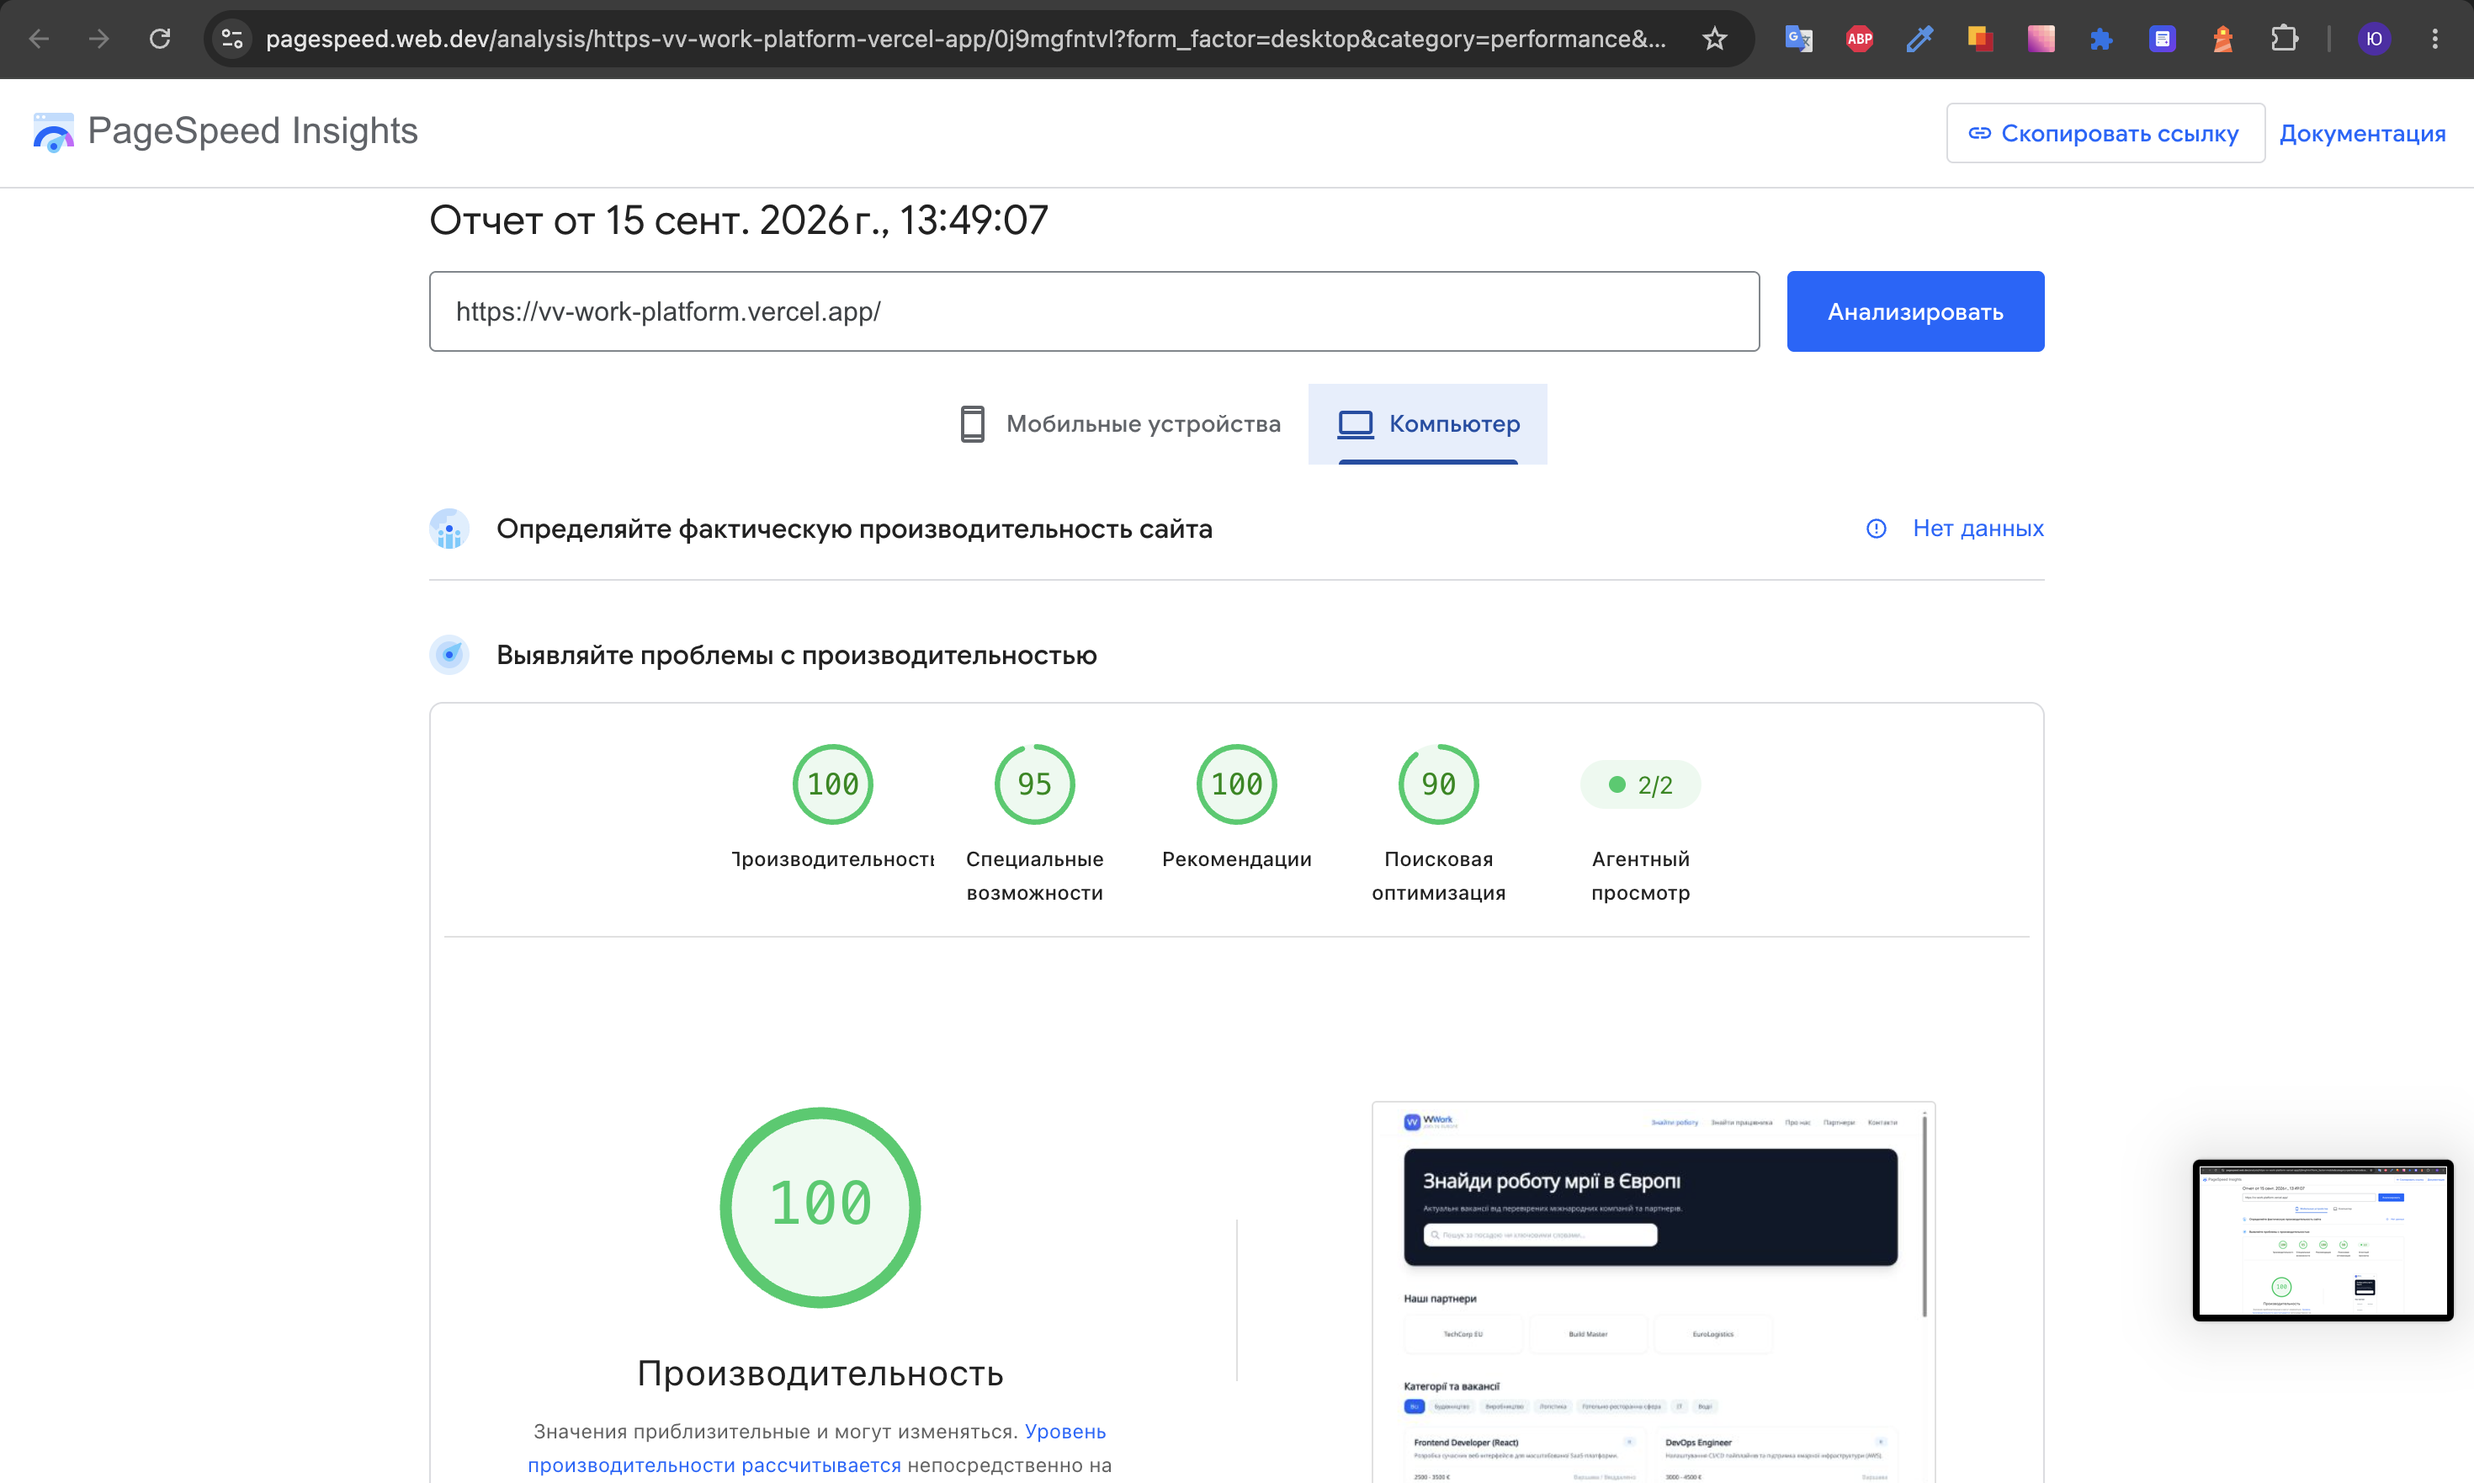
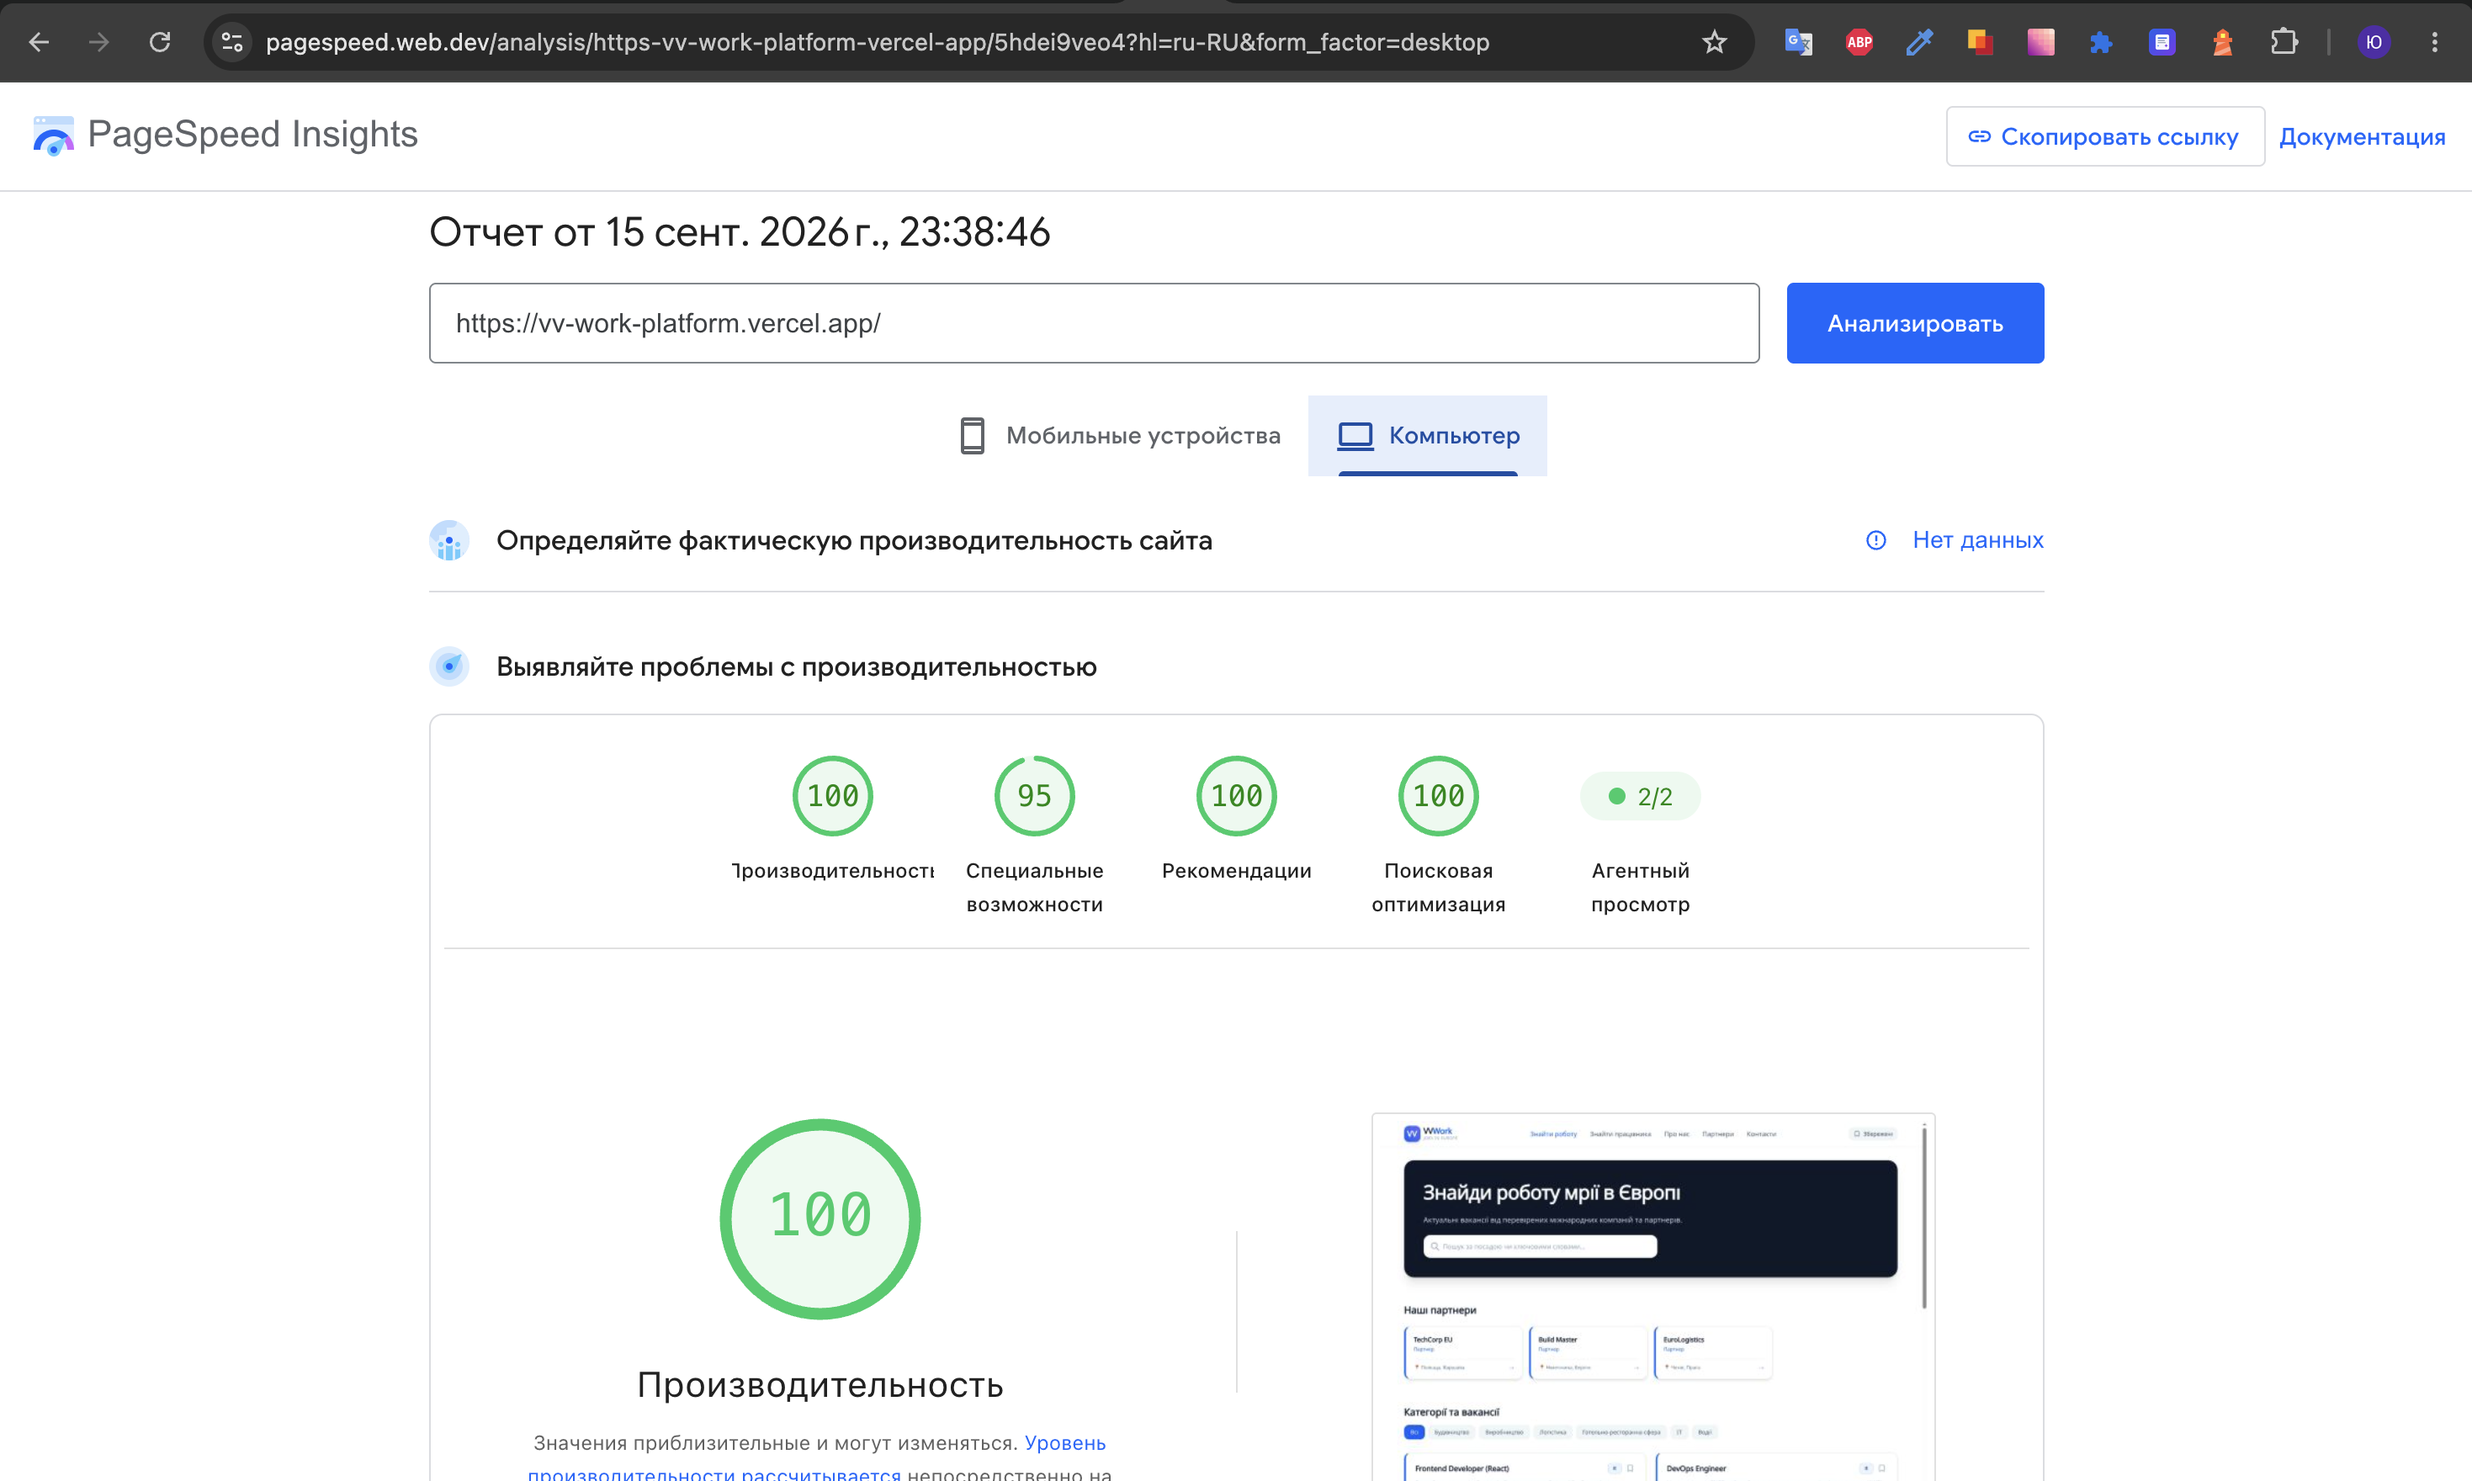
feat: implement saved jobs system with useLocalStorage and update README

diff --git a/README.md b/README.md
@@ -17,6 +17,7 @@ A dynamic, high-performance web platform designed to simplify the job search pro
 - **Resilient Network Layer:** Simulated API layer (useFetch) with randomized latency (300-800ms) and ~13% error rates, complete with skeletons and inline retry mechanisms.
 - **Interactive Contact Form:** Instant client-side validation for Ukrainian phone numbers and Telegram handles (@username), character counter, and optimistic feedback.
 - **Accessible & Responsive:** Mobile-first layout compliant with modern accessibility (axe-core) standards.
+- **Saved Jobs & Persistence:** Real-time bookmarking system powered by a custom useLocalStorage hook and React Router Outlet context, supporting instant UI synchronization and URL-based filtering (?saved=true).
 
 ---
 
@@ -26,6 +27,7 @@ A dynamic, high-performance web platform designed to simplify the job search pro
 - **Optimized Rendering Cycle:** Isolated input states to prevent heavy list component re-renders on every keypress during filtering.
 - **Card-Based UI System:** Designed a cohesive visual language with elevated card layouts, subtle borders, and clear accent hierarchy in place of an existing Figma mockup.
 - **Resilient UX Mechanics:** Replaced invasive browser alerts with direct inline validation indicators and soft toast notifications for simulated async errors.
+- **Global State without External Libraries:** Handled application-wide saved state using Lifting State Up via React Router's Outlet context and local storage synchronization, avoiding heavy third-party state managers.
 
 ---
 
@@ -85,6 +87,6 @@ src/
 │ ├── layout/ # Shared Header, Footer, and Layout wrappers
 │ └── partners/ # Partner cards and list grids
 ├── data/ # Mock dataset (mockData.ts)
-├── hooks/ # Custom hooks (useFetch, useDebounce)
+├── hooks/ # Custom hooks (useFetch, useDebounce, useLocalStorage)
 ├── pages/ # Page routing components
 └── types/ # Strict TypeScript interface declarations
